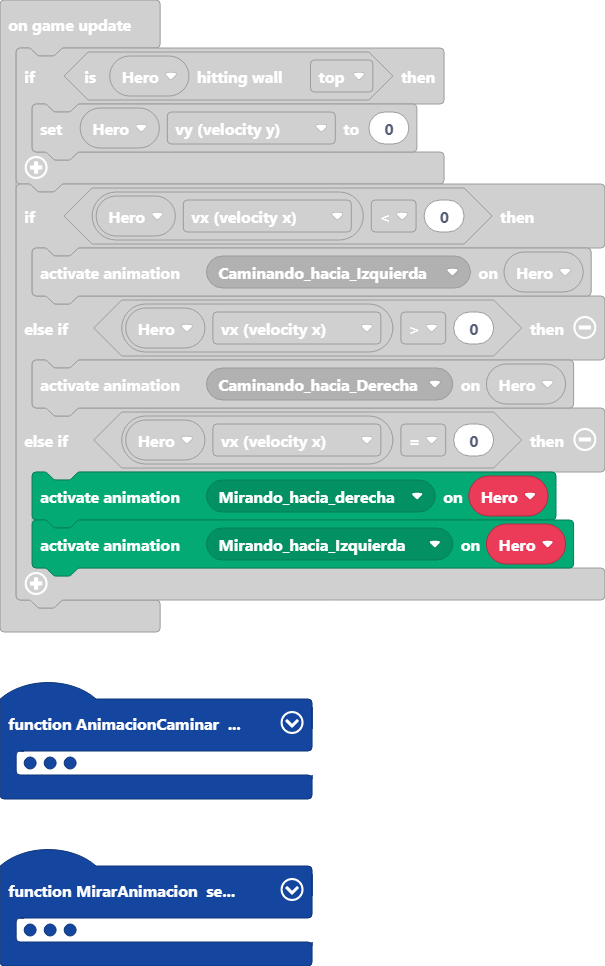
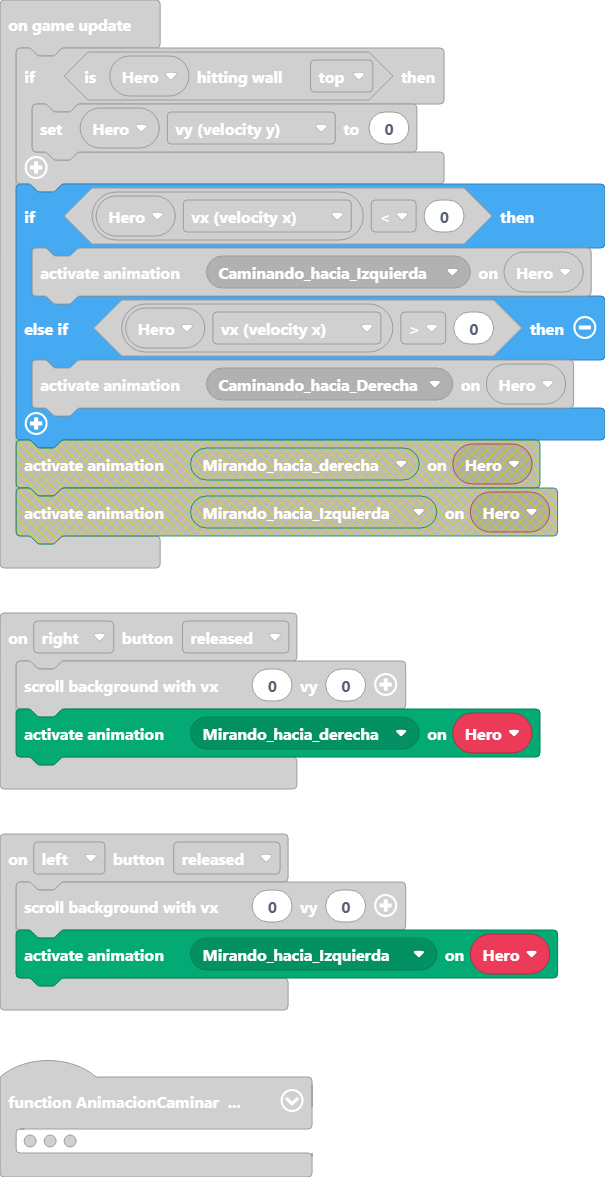
Update main.blocks, main.ts

diff --git a/main.ts b/main.ts
@@ -74,12 +74,14 @@ function IniciarAnimacioesHero () {
 }
 controller.right.onEvent(ControllerButtonEvent.Released, function () {
     scroller.scrollBackgroundWithSpeed(0, 0)
+    animation.setAction(Hero, ActionKind.Mirando_hacia_derecha)
 })
 controller.left.onEvent(ControllerButtonEvent.Released, function () {
     scroller.scrollBackgroundWithSpeed(0, 0)
+    animation.setAction(Hero, ActionKind.Mirando_hacia_Izquierda)
 })
 function AnimacionCaminar () {
-    CaminarPaIzquierda = animation.createAnimation(ActionKind.Caminando_hacia_Izquierda, 300)
+    CaminarPaIzquierda = animation.createAnimation(ActionKind.Caminando_hacia_Izquierda, 100)
     animation.attachAnimation(Hero, CaminarPaIzquierda)
     CaminarPaIzquierda.addAnimationFrame(img`
         . . . . . . 2 2 2 2 2 . . . . . 
@@ -153,7 +155,7 @@ function AnimacionCaminar () {
         . . . e e e . . . . e e e . . . 
         . . e e e e . . . . e e e e . . 
         `)
-    CaminarPaDerecha = animation.createAnimation(ActionKind.Caminando_hacia_Derecha, 300)
+    CaminarPaDerecha = animation.createAnimation(ActionKind.Caminando_hacia_Derecha, 100)
     animation.attachAnimation(Hero, CaminarPaDerecha)
     CaminarPaDerecha.addAnimationFrame(img`
         . . . . . 2 2 2 2 2 . . . . . . 
@@ -497,8 +499,5 @@ game.onUpdate(function () {
         animation.setAction(Hero, ActionKind.Caminando_hacia_Izquierda)
     } else if (Hero.vx > 0) {
         animation.setAction(Hero, ActionKind.Caminando_hacia_Derecha)
-    } else if (Hero.vx == 0) {
-        animation.setAction(Hero, ActionKind.Mirando_hacia_derecha)
-        animation.setAction(Hero, ActionKind.Mirando_hacia_Izquierda)
     }
 })
